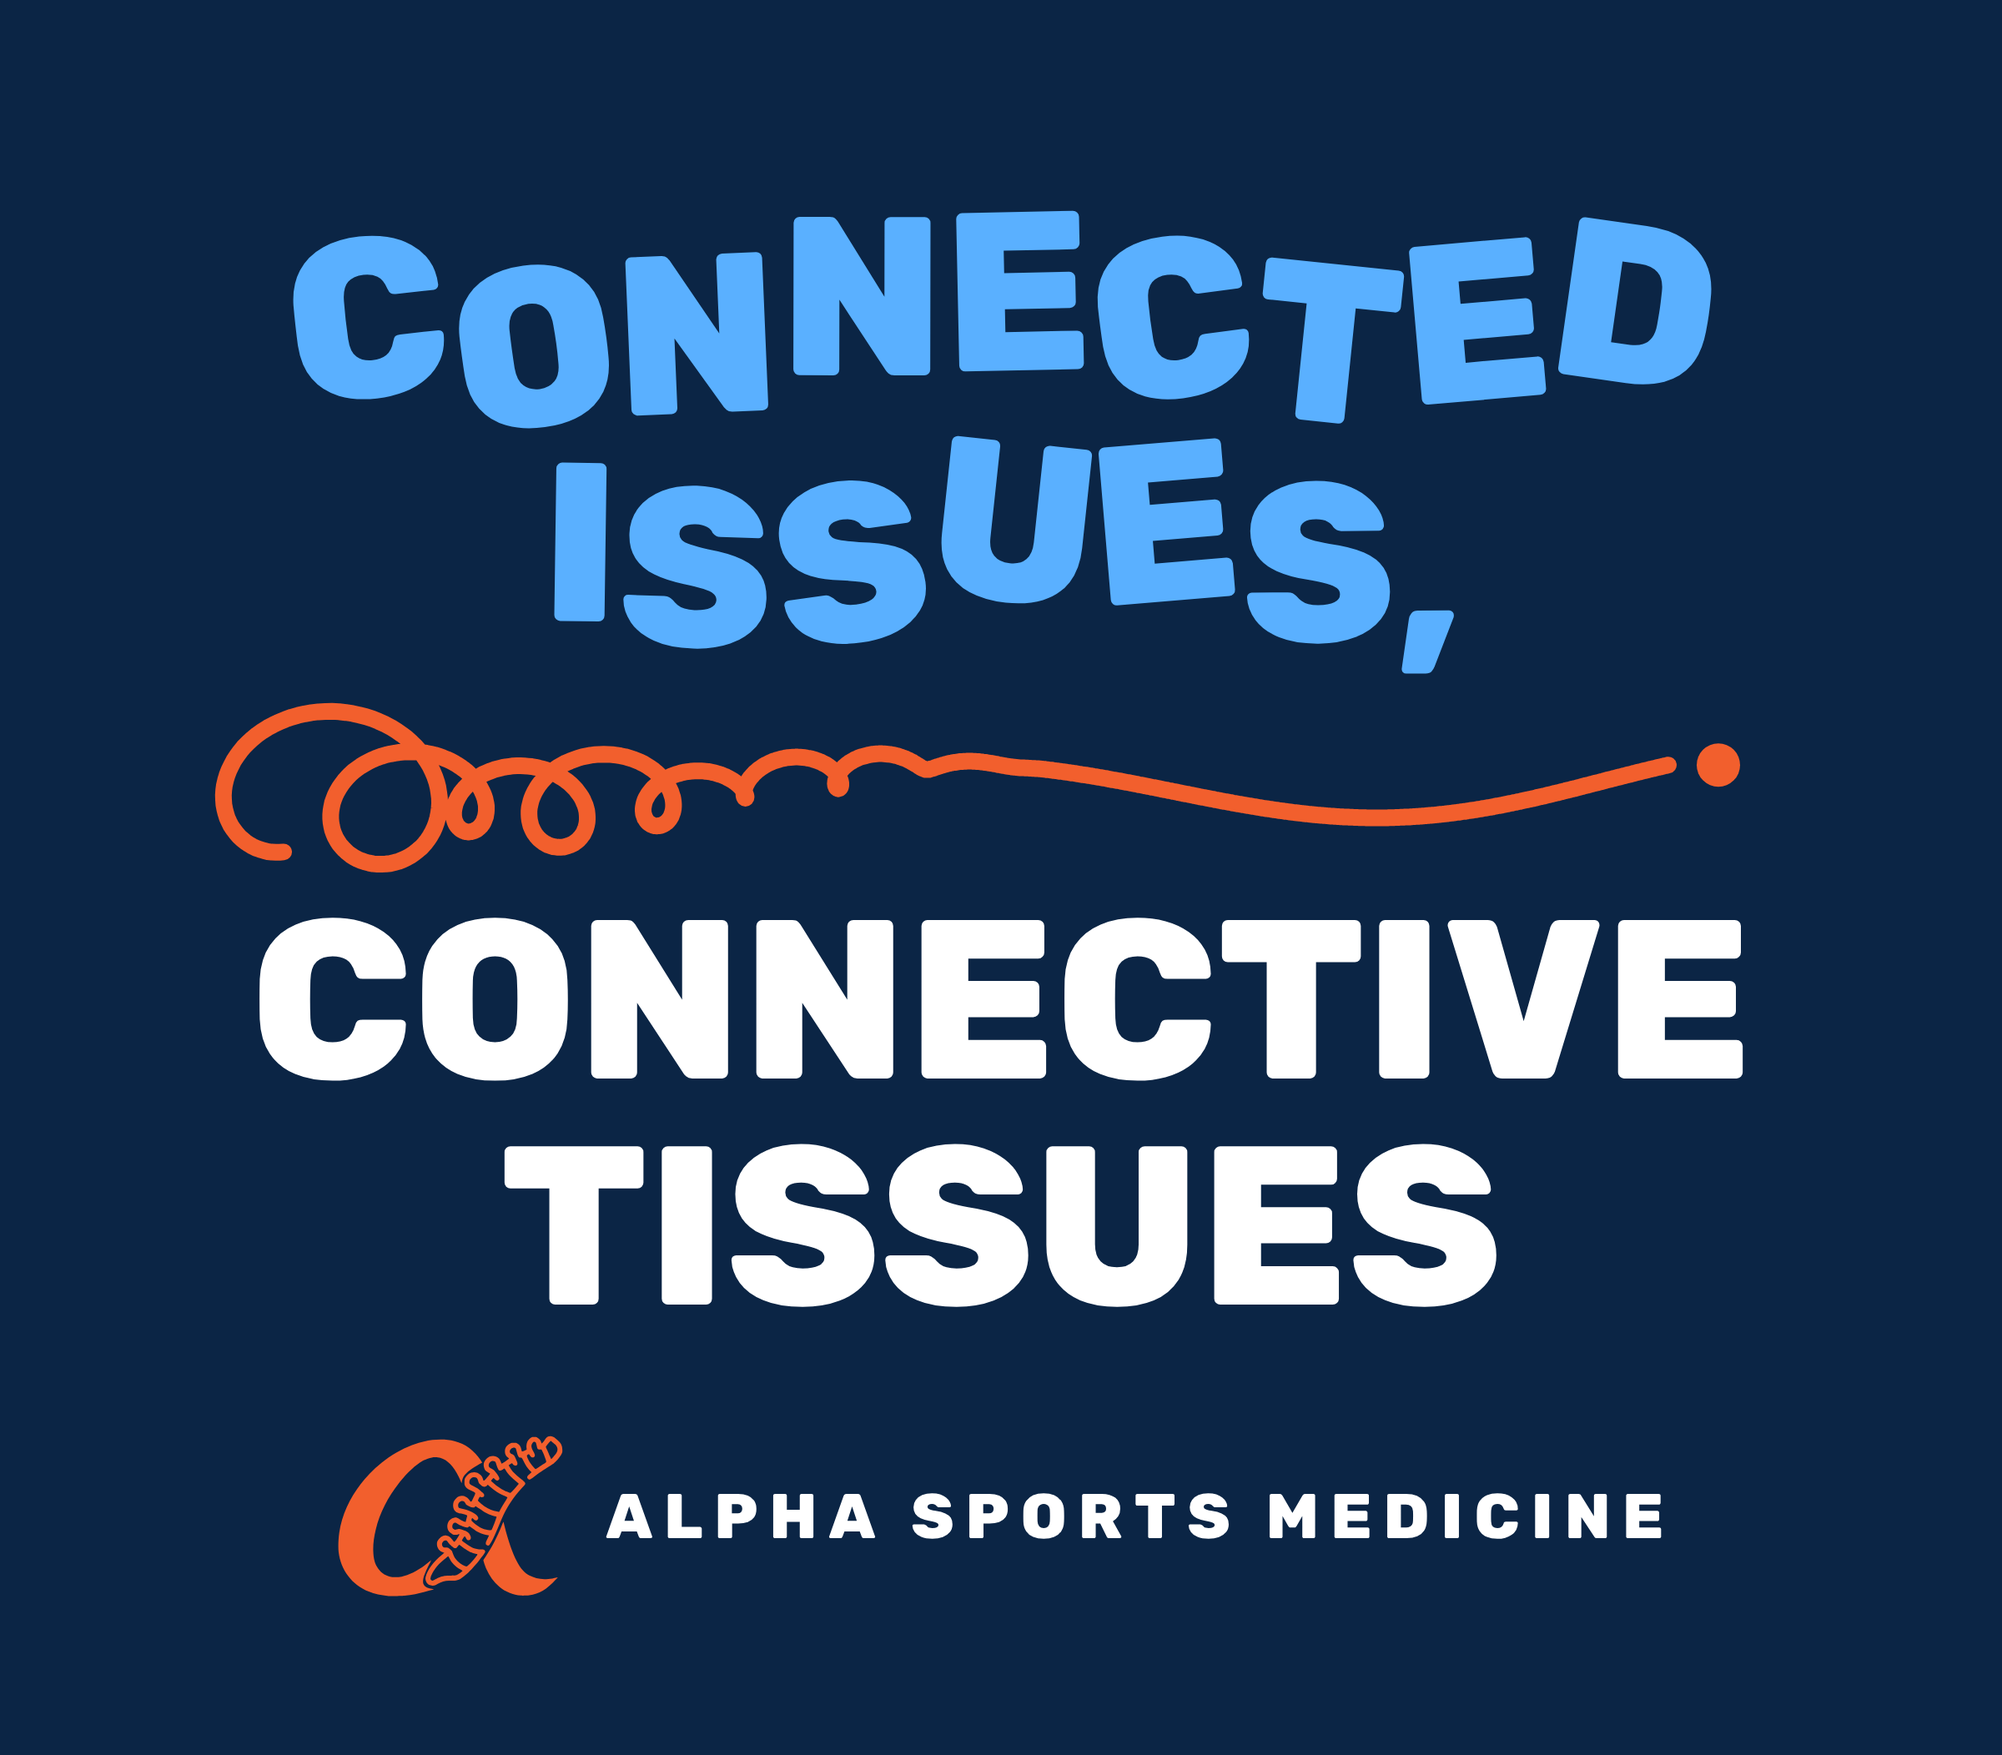
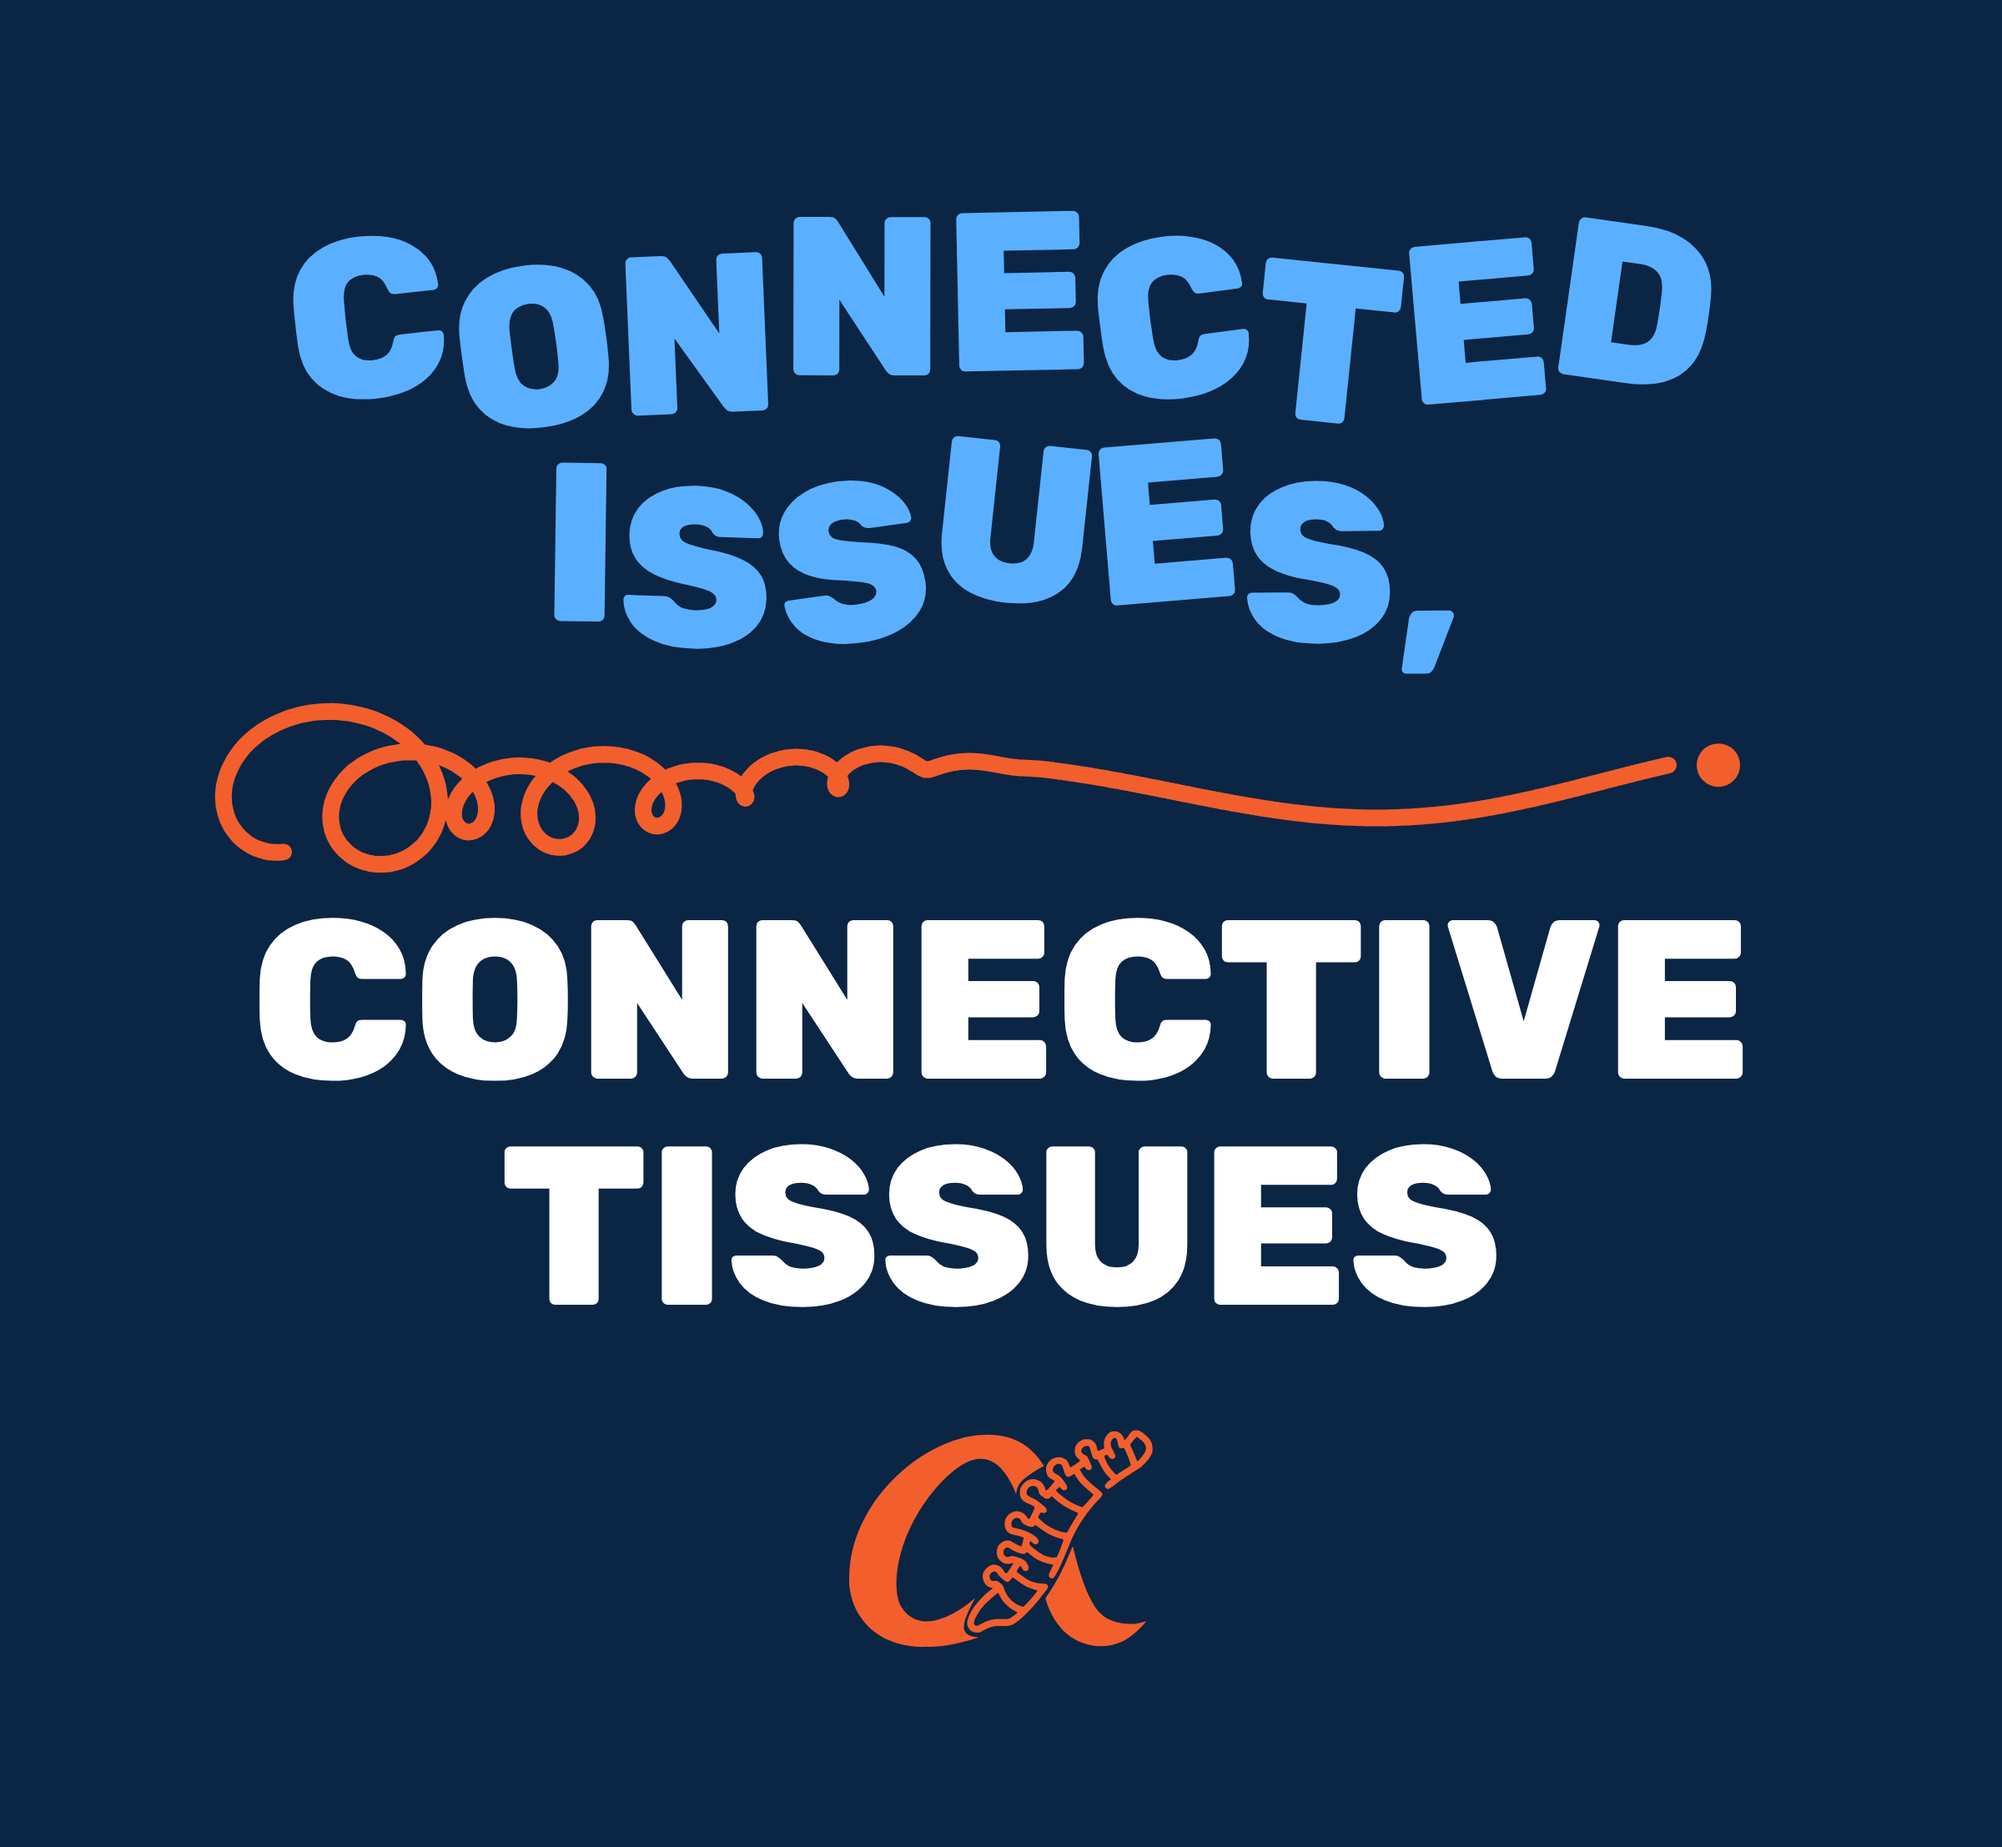
T-shirt design: replace name lockup with centred alpha swish
Claude-Session: https://claude.ai/code/session_012B8B9Ec3jQcFVsqmJNiDxz

diff --git a/tshirt/render.js b/tshirt/render.js
@@ -1,6 +1,6 @@
 const { chromium } = require('playwright');
 (async () => {
-  const b = await chromium.launch(); const p = await b.newPage({viewport:{width:1200,height:1052}, deviceScaleFactor:2});
+  const b = await chromium.launch(); const p = await b.newPage({viewport:{width:1200,height:1107}, deviceScaleFactor:2});
   for (const n of ['navy','white']) {
     await p.goto('file://' + process.cwd() + `/_prev_${n}.svg`);
     await p.screenshot({path:`preview-${n}.png`});

diff --git a/tshirt/gen.py b/tshirt/gen.py
@@ -48,6 +48,7 @@ def squiggle(x0, x1, cy):
         pts.append((x, y))
     return "M" + " L".join(f"{x:.1f},{y:.1f}" for x, y in pts)
 
+SWISH_SIZE = 130  # height of the alpha swish
 CAP = font["OS/2"].sCapHeight / UPM  # cap height as a fraction of font size
 
 def layout():
@@ -58,8 +59,8 @@ def layout():
     cy = b2 + 96                                # squiggle, tucked under the words
     b3 = cy + 80 + cap                          # CONNECTIVE
     b4 = b3 + lead + cap                        # TISSUES
-    b5 = b4 + 140                               # logo lockup (text baseline)
-    return size, (b1, b2), cy, (b3, b4), b5, b5 + 130
+    b5 = b4 + 75                                # top of the alpha swish
+    return size, (b1, b2), cy, (b3, b4), b5, b5 + SWISH_SIZE + 120
 
 def build(fg, bg):
     size, (b1, b2), cy, (b3, b4), b5, h = layout()
@@ -78,17 +79,10 @@ def build(fg, bg):
     # calm, tidy bottom words
     o.append(text_paths("CONNECTIVE", 600, b3, size, lambda i, c: fg))
     o.append(text_paths("TISSUES", 600, b4, size, lambda i, c: fg))
-    # logo lockup: alpha swish + letter-spaced name, centred as one unit
-    name, ts, tr = "ALPHA SPORTS MEDICINE", 38, 0.18
-    sh = 96                                       # swish height
-    sc = sh / SWISH_H
-    sw, gap, tw = SWISH_W * sc, 26, width(name, ts, tr)
-    x0 = 600 - (sw + gap + tw) / 2
-    cap = CAP * ts
-    sy = b5 - cap / 2 - sh / 2                    # swish centred on the text
+    # alpha swish from the logo, centred under the slogan
+    sc = SWISH_SIZE / SWISH_H
     o.append(f'<path d="{SWISH_D}" fill="{ORANGE}" fill-rule="evenodd" '
-             f'transform="translate({x0:.1f} {sy:.1f}) scale({sc:.5f})"/>')
-    o.append(text_paths(name, x0 + sw + gap + tw / 2, b5, ts, lambda i, c: fg, tracking=tr))
+             f'transform="translate({600 - SWISH_W * sc / 2:.1f} {b5:.1f}) scale({sc:.5f})"/>')
     o.append('</svg>')
     return "\n".join(o)
 
